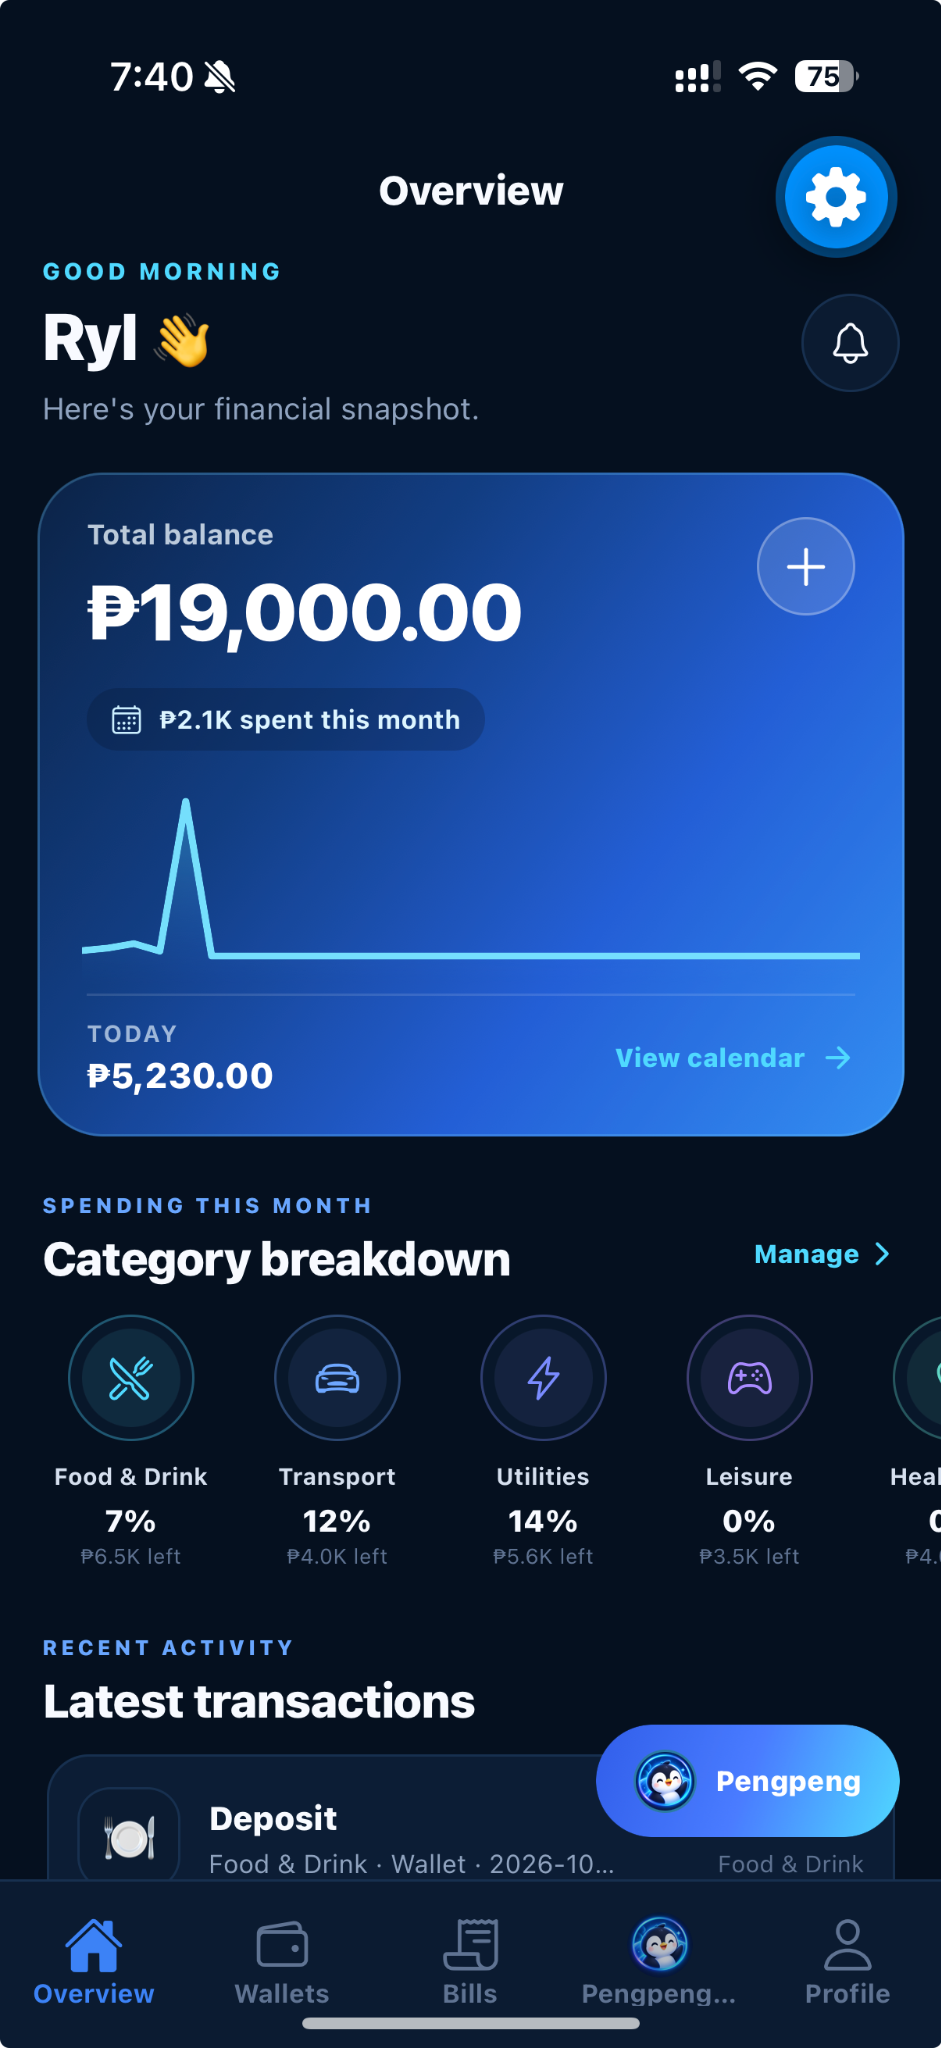
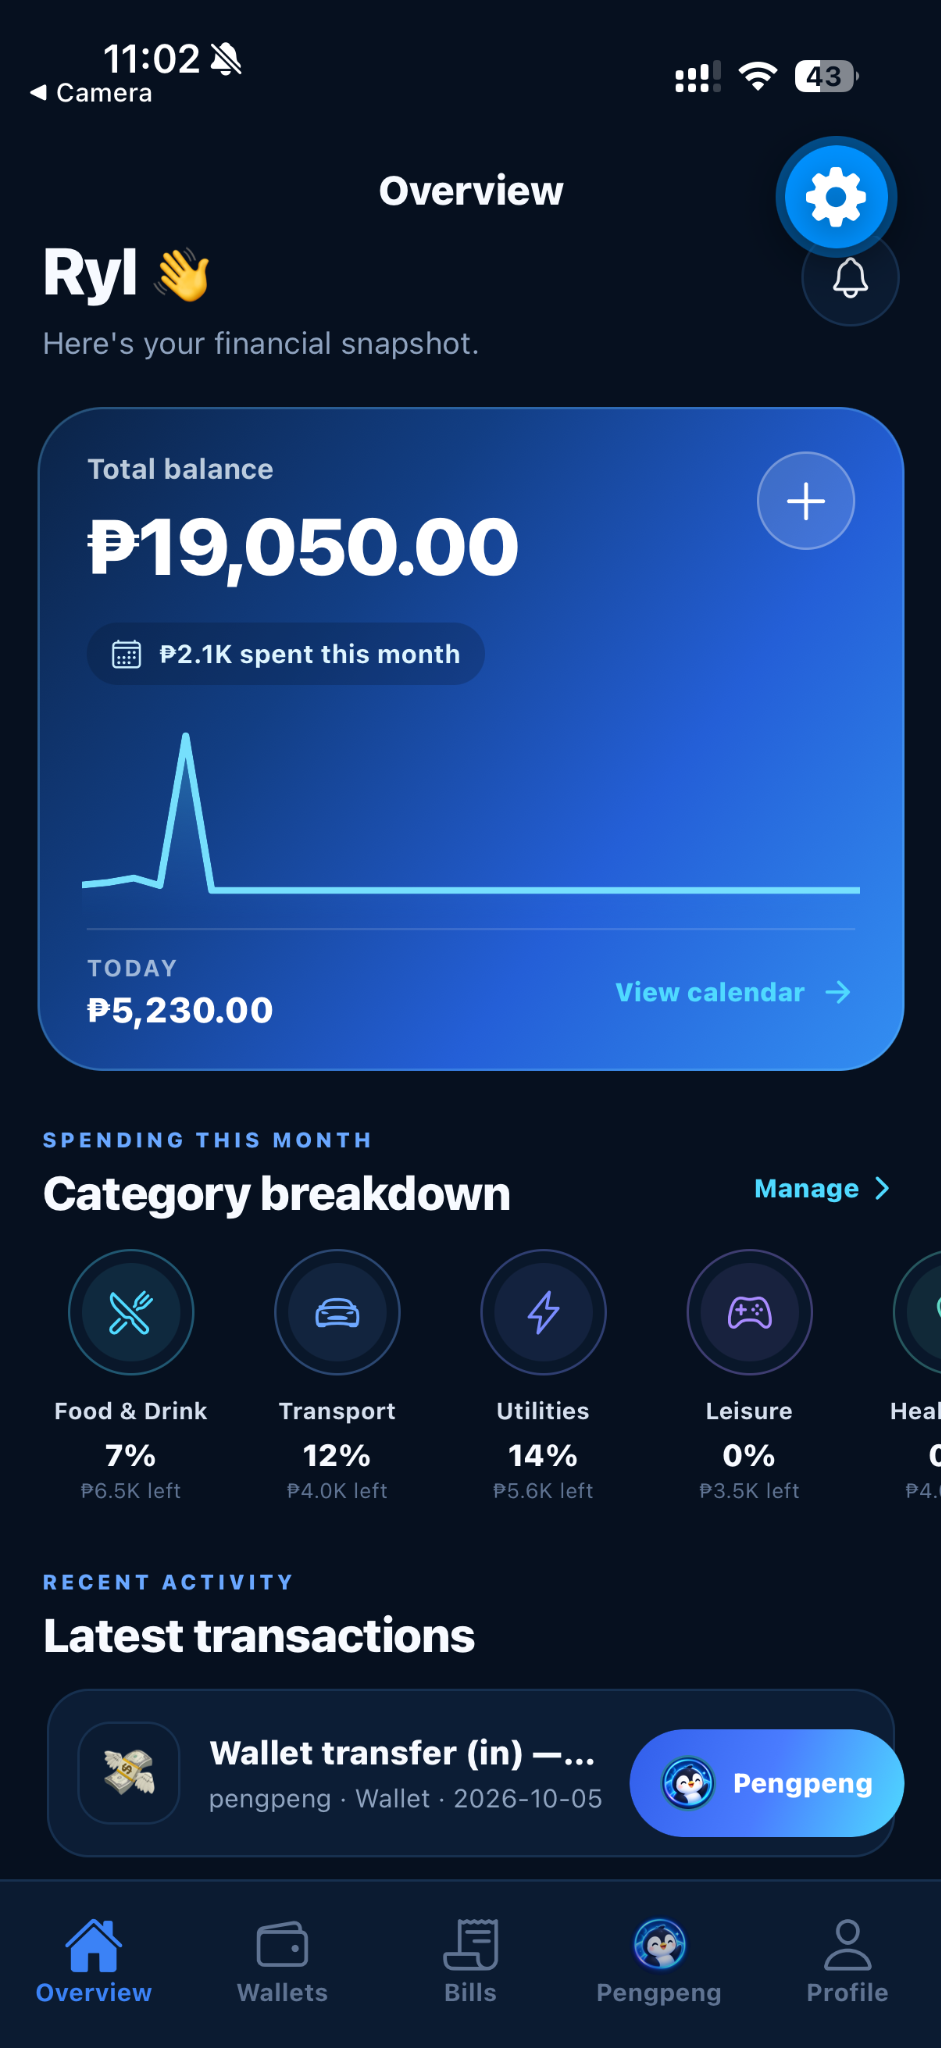
Add complete Pengpeng screenshot gallery

diff --git a/README.md b/README.md
@@ -22,18 +22,36 @@ The app is centered around **Pengpeng**, a friendly penguin assistant that helps
 
 ## App preview
 
+These screenshots were captured from the working Expo build.
+
 <table>
   <tr>
+    <td align="center"><strong>Splash</strong></td>
     <td align="center"><strong>Overview</strong></td>
-    <td align="center"><strong>Pengpeng AI</strong></td>
+    <td align="center"><strong>Wallets</strong></td>
+    <td align="center"><strong>Bills</strong></td>
   </tr>
   <tr>
-    <td><img src="docs/screenshots/02-overview.png" alt="Pengpeng overview screen" width="330" /></td>
-    <td><img src="docs/screenshots/05-pengpeng-ai.png" alt="Pengpeng AI screen" width="330" /></td>
+    <td><img src="docs/screenshots/01-splash.png" alt="Pengpeng splash screen" width="220" /></td>
+    <td><img src="docs/screenshots/02-overview.png" alt="Pengpeng overview screen" width="220" /></td>
+    <td><img src="docs/screenshots/03-wallets.png" alt="Pengpeng wallets screen" width="220" /></td>
+    <td><img src="docs/screenshots/04-bills.png" alt="Pengpeng bills screen" width="220" /></td>
+  </tr>
+  <tr>
+    <td align="center"><strong>Pengpeng AI</strong></td>
+    <td align="center"><strong>Profile & Goals</strong></td>
+    <td align="center"><strong>App Tour</strong></td>
+    <td align="center"><strong>Profile Onboarding</strong></td>
+  </tr>
+  <tr>
+    <td><img src="docs/screenshots/05-pengpeng-ai.png" alt="Pengpeng AI screen" width="220" /></td>
+    <td><img src="docs/screenshots/06-profile-goals.png" alt="Pengpeng profile and savings goals screen" width="220" /></td>
+    <td><img src="docs/screenshots/07-app-tour.png" alt="Pengpeng interactive app tour" width="220" /></td>
+    <td><img src="docs/screenshots/08-profile-onboarding.png" alt="Pengpeng financial profile onboarding" width="220" /></td>
   </tr>
 </table>
 
-> These are real device screenshots from the working Expo build. Additional screenshots for Wallets, Bills, Profile/Goals, and App Tour can be added to `docs/screenshots/`.
+> The blue gear button and the “Camera” back label visible in these captures come from Expo Go / the iPhone launch flow and are not part of the Pengpeng production UI. A standalone build can be used later for cleaner portfolio screenshots.
 
 ## Core features
 

diff --git a/docs/screenshots/README.md b/docs/screenshots/README.md
@@ -1,16 +1,14 @@
 # Pengpeng Screenshots
 
-Current real-device screenshots:
+Real-device screenshots included:
 
-- `02-overview.png`
-- `05-pengpeng-ai.png`
+- `01-splash.png` — branded Tap to Continue splash
+- `02-overview.png` — financial overview dashboard
+- `03-wallets.png` — wallet balances, caps, and transfers
+- `04-bills.png` — bills and subscriptions
+- `05-pengpeng-ai.png` — Pengpeng Local Insights
+- `06-profile-goals.png` — profile and savings goals
+- `07-app-tour.png` — interactive guided tour
+- `08-profile-onboarding.png` — first-run financial profile setup
 
-Recommended additions for the complete GitHub / portfolio gallery:
-
-- `01-splash.png`
-- `03-wallets.png`
-- `04-bills.png`
-- `06-profile-goals.png`
-- `07-app-tour.png`
-
-Use real screenshots from the finished app. For the cleanest portfolio presentation, capture them from an installed development/preview build so Expo Go controls are not visible.
+Note: the blue Expo Go gear overlay and the iOS “Camera” back label are development/runtime overlays, not Pengpeng UI.
